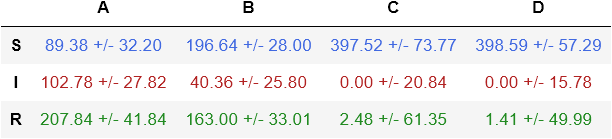
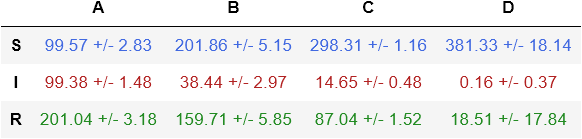
new results b

diff --git a/Project5/main.py b/Project5/main.py
@@ -15,6 +15,8 @@ import RK4_MonteCarlo    as Solver
 import plots             as P
 import dataframe_image   as dfi
 
+from numba import njit 
+
 # ----------------------------------------------------------------------------
 
 # Global parameters
@@ -90,7 +92,7 @@ if __name__ == '__main__':
     exercise.add_argument('-c', '--VD',  action="store_true", help="Vital Dynamics")
     exercise.add_argument('-d', '--SV',  action="store_true", help="Seasonal Variation")
     exercise.add_argument('-e', '--VC',  action="store_true", help="Vaccination")
-    exercise.add_argument('-f', '--Final',  action="store_true", help="Combination of all models")
+    exercise.add_argument('-f', '--Final', action="store_true", help="Combination of all models")
 
     if len(sys.argv) <= 1:
         sys.argv.append('--help')
@@ -105,16 +107,16 @@ if __name__ == '__main__':
 
     print(parser.description)
 
+    n = int(1e4) #nr of points for RK4 run
 
     if exA:
 
         print('\nExercise A: Runge-Kutta 4')
 
         # Make RK4 simulation for 4 populations, with b=[bA, bB, bC, bD]
-        n   = int(1e4) #nr of points for RK4 run
         for i in range(len(b_list)):
-            S, I, _, time, f  = Solver.RK4(a, b_list[i], c, S_0, I_0, R_0, N, T, n, Basic=True, fx=Solver.fS, fy=Solver.fI)
-            R  = N - S - I
+            S, I, R, time, f  = Solver.RK4(a, b_list[i], c, S_0, I_0, R_0, N, T, n, Basic=True, fx=Solver.fS, fy=Solver.fI)
+            print(I[-20:])
             P.plot_SIR(time, b_list[i], S, I, R, T, pop[i], title_method="Runge-Kutta 4", method='RK4', save_plot=False, folder='5a')
 
     if exB:
@@ -126,6 +128,7 @@ if __name__ == '__main__':
         I_ABCD = []
         R_ABCD = []
 
+
         # Make MC simulation for 4 populations, with b=[bA, bB, bC, bD]
         for i in range(len(b_list)):
             S, I, R, time, f = Solver.MC(a, b_list[i], c, S_0, I_0, R_0, N, T)
@@ -133,19 +136,21 @@ if __name__ == '__main__':
 
             # Finding the equilibrium, decided for each population by looking
             # at the plots. For population A-C: T=6, for D: T=10
+            if pop[i] == 'A':
+                equ = int((len(S)/12)*7)
+            if pop[i] == 'B':
+                equ = int((len(S)/12)*8)
             if pop[i] == 'C':
                 equ = int((len(S)/12)*10)
-            elif pop[i] == 'D':
-                equ = int((len(S)/12)*9)
             else:
-                equ = int((len(S)/12)*6)
+                equ = int((len(S)/12)*3)
 
             # Making a Pandas dataframe with mean and std values for all
             # populations after equilibrium
 
-            S_ABCD.append('%.2f +/- %.2f' %(np.mean(S[equ:]), np.std(S)))
-            I_ABCD.append('%.2f +/- %.2f' %(np.mean(I[equ:]), np.std(I)))
-            R_ABCD.append('%.2f +/- %.2f' %(np.mean(R[equ:]), np.std(R)))
+            S_ABCD.append('%.2f +/- %.2f' %(np.mean(S[equ:]), np.std(S[equ:])))
+            I_ABCD.append('%.2f +/- %.2f' %(np.mean(I[equ:]), np.std(I[equ:])))
+            R_ABCD.append('%.2f +/- %.2f' %(np.mean(R[equ:]), np.std(R[equ:])))
 
         dataframe = DataFrameSolution(S_ABCD, I_ABCD, R_ABCD)
 
@@ -158,7 +163,6 @@ if __name__ == '__main__':
 
 
         # Make RK4 simulation for 4 populations, with b=[bA, bB, bC, bD]
-        n   = int(1e4) #nr of points for RK4 run
         for i in range(len(b_list)):
             S, I, R, time, f  = Solver.RK4(a, b_list[i], c, S_0, I_0, R_0, N, T, n, fx=Solver.fS, fy=Solver.fI, fz=Solver.fR, Vital=True)
             P.plot_SIR(time, b_list[i], S, I, R, T, pop[i], title_method="RK4 with vital dynamics", method='RK4_vitality', save_plot=False, folder='5c', tot_pop=True)
@@ -174,12 +178,9 @@ if __name__ == '__main__':
         print('\nExercise D: Seasonal variation')
 
         # Make RK4 simulation for 4 populations, with b=[bA, bB, bC, bD]
-        n   = int(1e4) #nr of points for RK4 run
         for i in range(len(b_list)):
             S, I, R, time, f  = Solver.RK4(a, b_list[i], c, S_0, I_0, R_0, N, T, n, fx=Solver.fS, fy=Solver.fI, fz=Solver.fR, Season=True)
-            R = N - S - I
             P.plot_SIR(time, b_list[i], S, I, R, T, pop[i], title_method="RK4 with seasonal variation", method='RK4_seasonal', save_plot=False, folder='5d')
-
 
         # Make MC simulation for 4 populations, with b=[bA, bB, bC, bD]
         for i in range(len(b_list)):
@@ -192,7 +193,6 @@ if __name__ == '__main__':
         print('\nExercise E: Vaccination')
 
         # Make RK4 simulation for 4 populations, with b=[bA, bB, bC, bD]
-        n   = int(1e4) #nr of points for RK4 run
         for i in range(len(b_list)):
             S, I, R, time, f  = Solver.RK4(a, b_list[i], c, S_0, I_0, R_0, N, T, n, fx=Solver.fS, fy=Solver.fI, fz=Solver.fR, Vaccine=True)
             P.plot_SIR(time, b_list[i], S, I, R, T, pop[i], title_method="RK4 with vaccine", method='RK4_vaccine', save_plot=False, folder='5e', exE=True, f=f)
@@ -208,7 +208,6 @@ if __name__ == '__main__':
         print('\nThe SIRS model with VD, SV and vaccination')
 
         # Make RK4 simulation for 4 populations, with b=[bA, bB, bC, bD]
-        n   = int(1e4) #nr of points for RK4 run
         for i in range(len(b_list)):
             S, I, R, time, f  = Solver.RK4(a, b_list[i], c, S_0, I_0, R_0, N, T, n, fx=Solver.fS, fy=Solver.fI, fz=Solver.fR, CombinedModel=True)
             P.plot_SIR(time, b_list[i], S, I, R, T, pop[i], title_method="RK4 Combined model", method='RK4_combined', save_plot=False, folder='CombinedModel', tot_pop=True, exE=True, f=f)

diff --git a/Project5/RK4_MonteCarlo.py b/Project5/RK4_MonteCarlo.py
@@ -61,25 +61,22 @@ def RK4(a_in, b, c, x0, y0, z0, N, T, n, fx, fy, fz=None, Basic=False, Vital=Fal
     if Basic:  # ex. a)
         a = a_in
         for i in range(n-1):
+
             kx1 = dt*fx(a, b, c, N, x[i], y[i])
             ky1 = dt*fy(a, b, c, N, x[i], y[i])
-            kz1 = dt*fz(a, b, c, N, x[i], y[i])
 
             kx2 = dt*fx(a, b, c, N, x[i] + kx1/2, y[i] + ky1/2)
             ky2 = dt*fy(a, b, c, N, x[i] + kx1/2, y[i] + ky1/2)
-            kz2 = dt*fz(a, b, c, N, x[i] + kx1/2, y[i] + ky1/2)
 
             kx3 = dt*fx(a, b, c, N, x[i] + kx2/2, y[i] + ky2/2)
             ky3 = dt*fy(a, b, c, N, x[i] + kx2/2, y[i] + ky2/2)
-            kz3 = dt*fz(a, b, c, N, x[i] + kx2/2, y[i] + ky2/2)
 
             kx4 = dt*fx(a, b, c, N, x[i] + kx3, y[i] + ky3)
             ky4 = dt*fy(a, b, c, N, x[i] + kx3, y[i] + ky3)
-            kz4 = dt*fz(a, b, c, N, x[i] + kx3, y[i] + ky3)
 
             x[i+1] = x[i] + (kx1 + 2*(kx2 + kx3) + kx4)/6
             y[i+1] = y[i] + (ky1 + 2*(ky2 + ky3) + ky4)/6
-            z[i+1] = z[i] + (kz1 + 2*(ky2 + ky3) + ky4)/6
+            z[i+1] = N - x[i] - y[i]
 
             t[i+1] = t[i] + dt
 
@@ -129,6 +126,7 @@ def RK4(a_in, b, c, x0, y0, z0, N, T, n, fx, fy, fz=None, Basic=False, Vital=Fal
 
             x[i+1] = x[i] + (kx1 + 2*(kx2 + kx3) + kx4)/6
             y[i+1] = y[i] + (ky1 + 2*(ky2 + ky3) + ky4)/6
+            z[i+1] = N - x[i] - y[i]
             t[i+1] = t[i] + dt
     
     if Vaccine:
@@ -313,9 +311,13 @@ def MC(a_in, b, c, S_0, I_0, R_0, N, T, vitality=False, seasonal=False, vaccine=
 
     # Size of time step
     dt = np.min([4/(a*N), 1/(b*N), 1/(c*N)])
+    #dt = 0.00001
 
     # Nr of time steps
     N_time = int(T/dt)
+
+    print(dt)
+    print(N_time)
 
     # Set up empty arrys
     S = np.zeros(N_time)
@@ -344,20 +346,25 @@ def MC(a_in, b, c, S_0, I_0, R_0, N, T, vitality=False, seasonal=False, vaccine=
         I[i+1] = I[i]
         R[i+1] = R[i]
 
+        rdm = np.random.random()  # only draw random number once
+
         # S to I
-        r_SI = np.random.random()
+        #r_SI = np.random.random()
+        r_SI = rdm
         if r_SI < (a*S[i]*I[i]*dt/N):
             S[i+1] -= 1
             I[i+1] += 1
 
         # I to R
-        r_IR = np.random.random()
+        #r_IR = np.random.random()
+        r_IR = rdm
         if r_IR < (b*I[i]*dt):
             I[i+1] -= 1
             R[i+1] += 1
 
         # R to S
-        r_RS = np.random.random()
+        #r_RS = np.random.random()
+        r_RS = rdm
         if r_RS < (c*R[i]*dt):
             R[i+1] -= 1
             S[i+1] += 1
